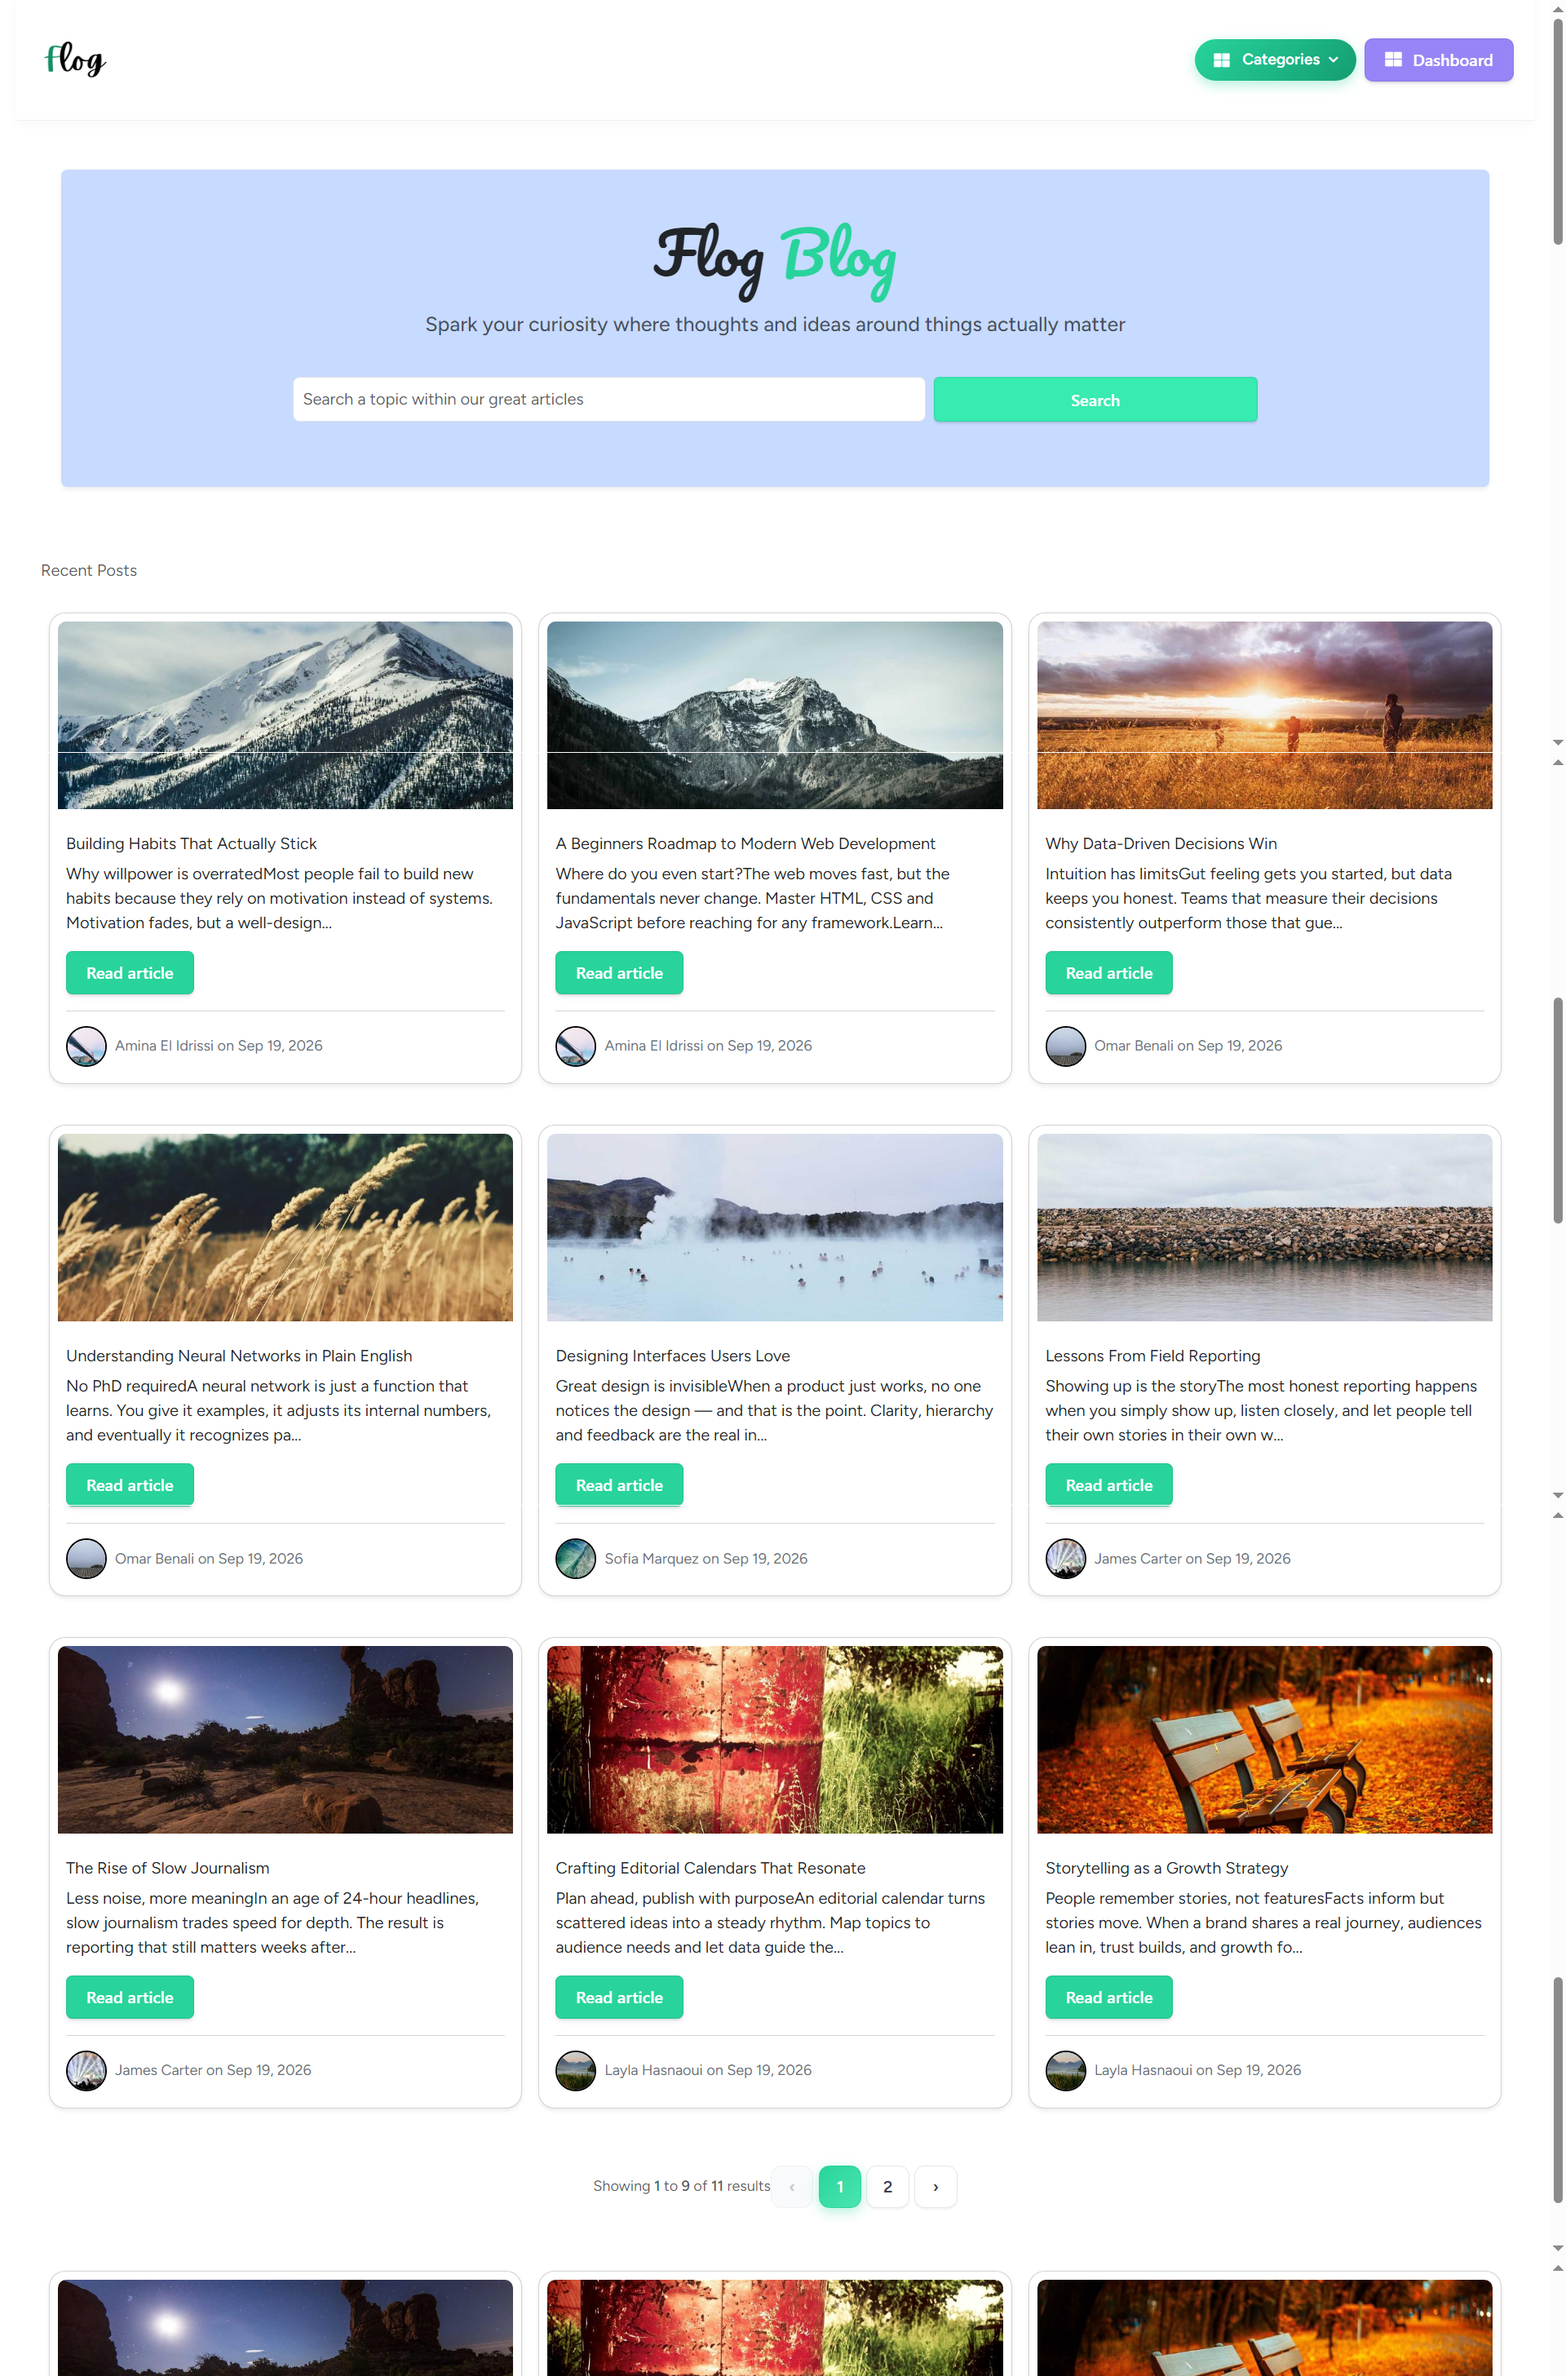
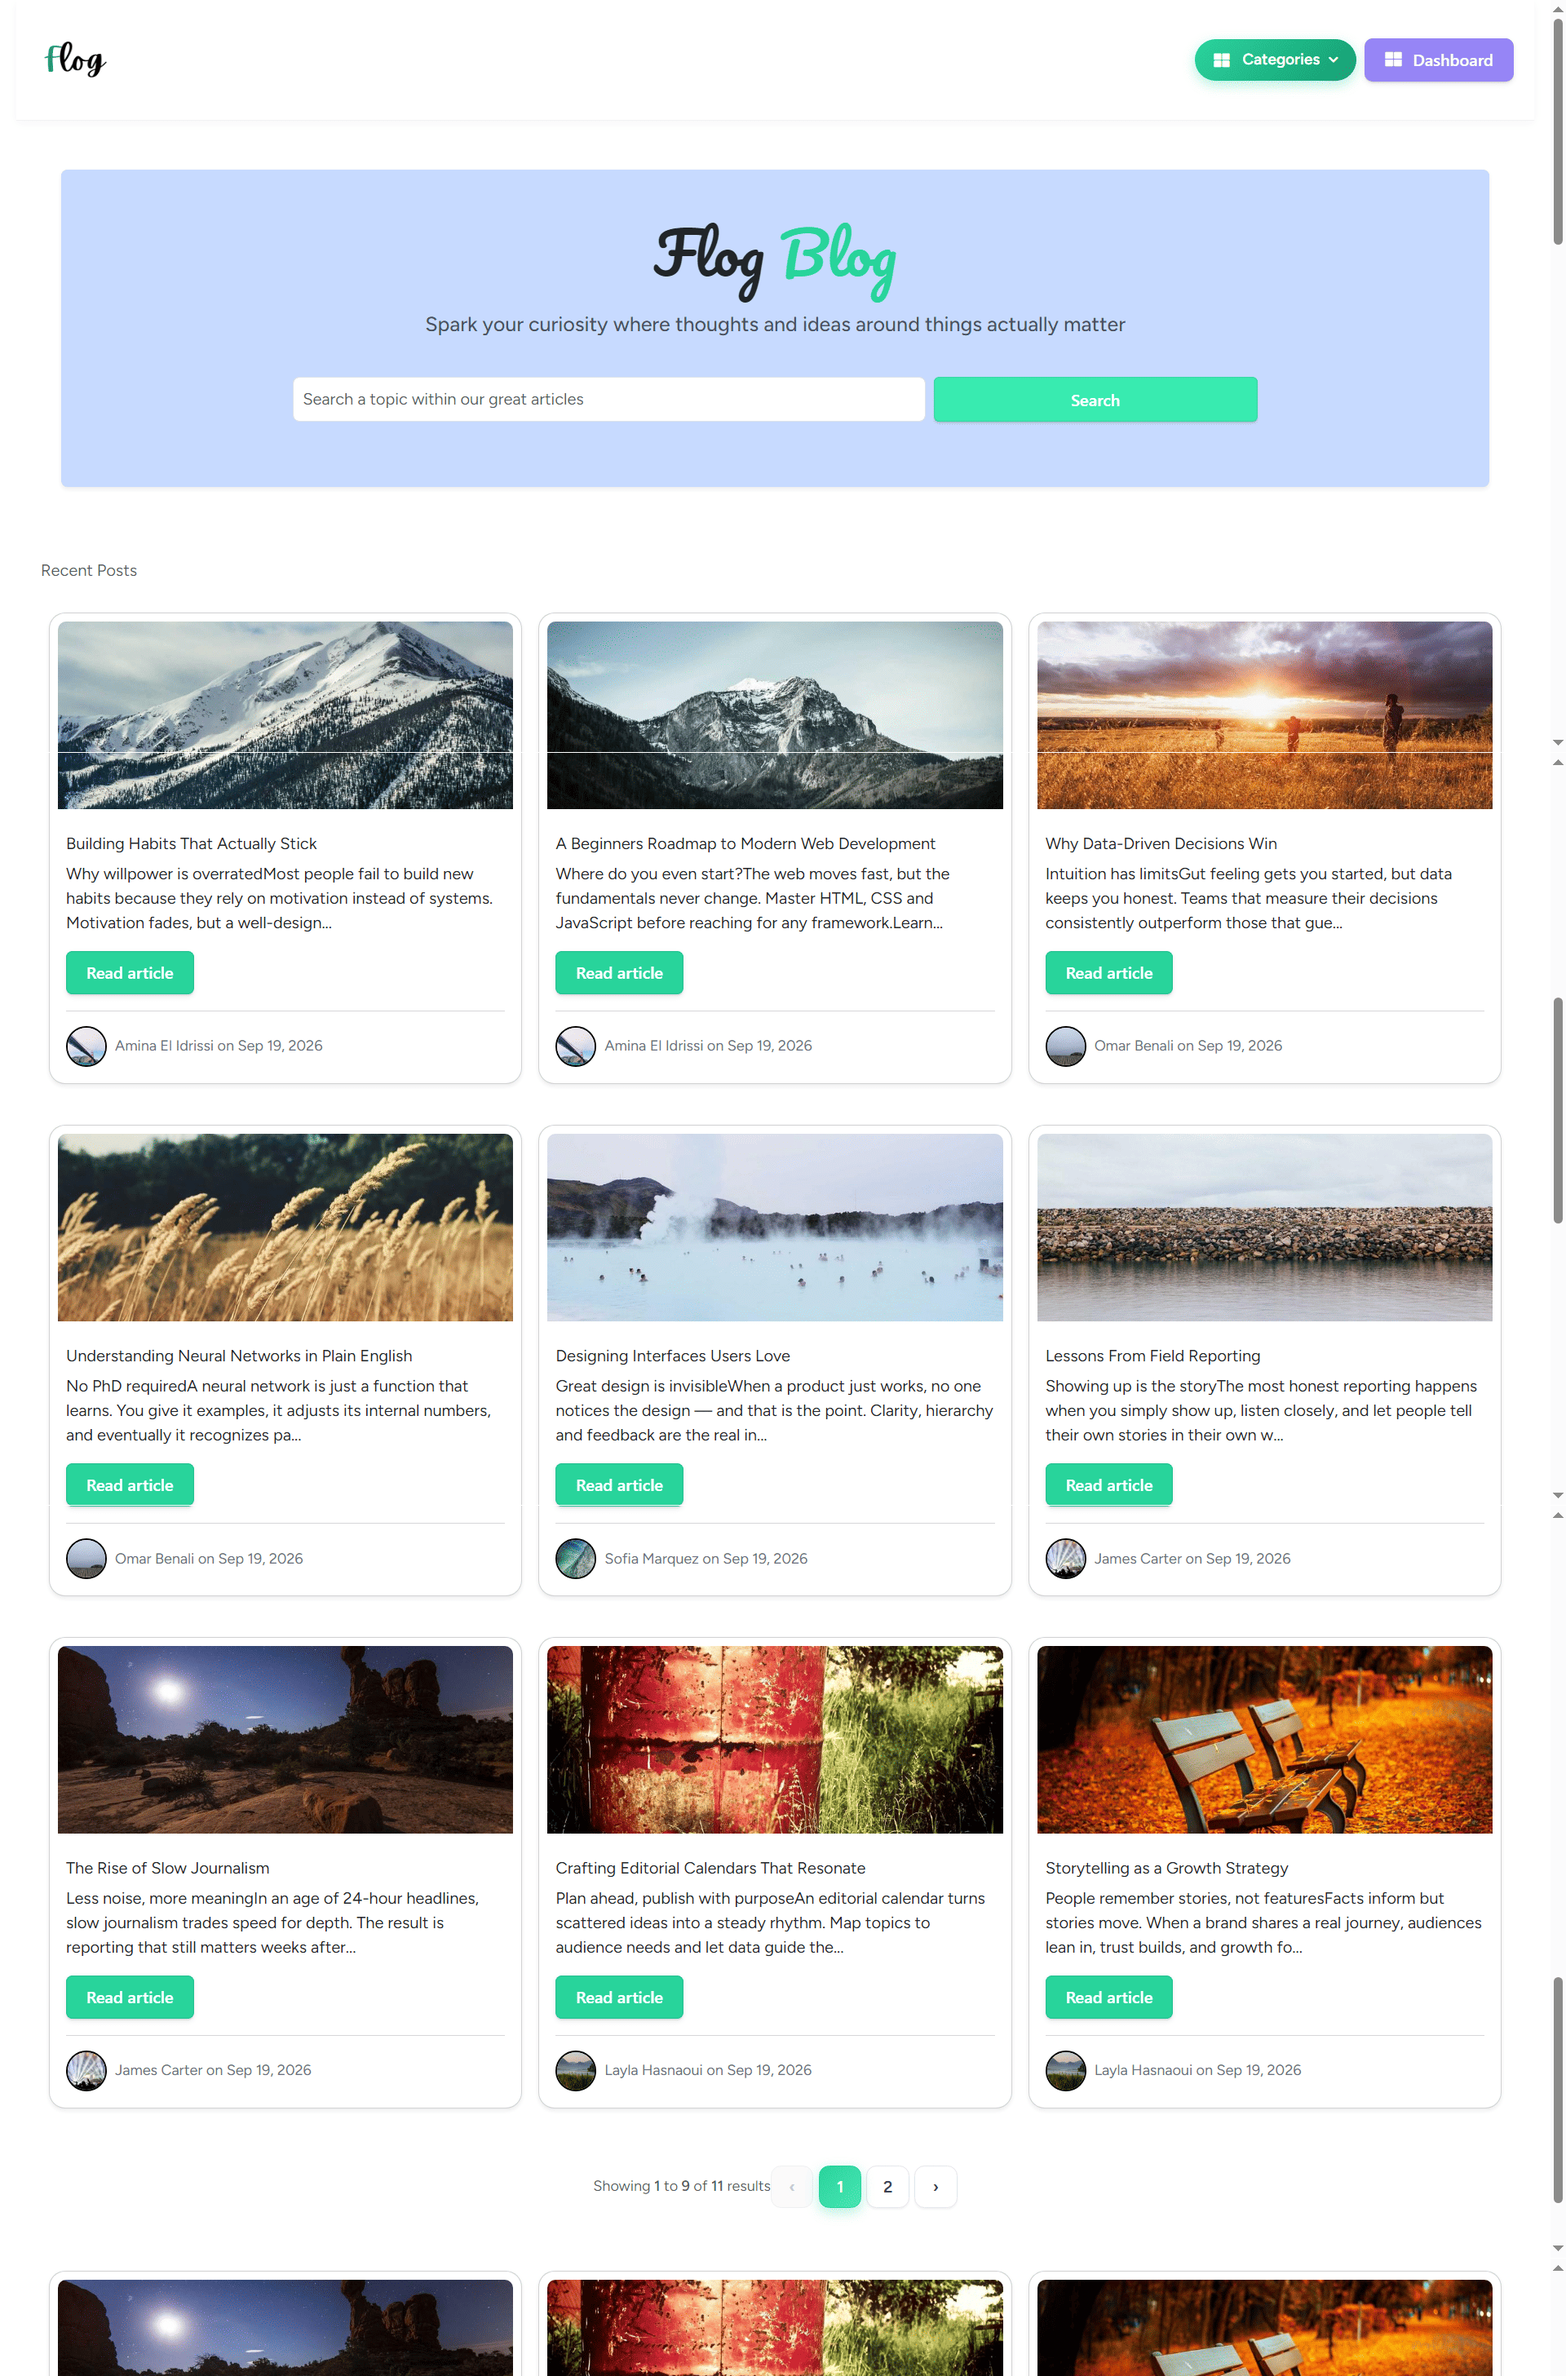
chore: add render free-tier deployment config and guide; retag color post thumbnail

diff --git a/database/seeders/PostsSeeder.php b/database/seeders/PostsSeeder.php
@@ -81,6 +81,7 @@ class PostsSeeder extends Seeder
                 'email' => 'sofia.marquez@example.com',
                 'title' => 'The Subtle Art of Color in Product Design',
                 'category' => 'Arts',
+                'image_seed' => 'flog-post-21',
                 'body' => '<h2>Color communicates before words do</h2>'
                     .'<p>Color sets the emotional tone of a product. Warm hues invite, cool tones reassure, '
                     .'and contrast guides attention exactly where it should go.</p>'
@@ -151,7 +152,7 @@ class PostsSeeder extends Seeder
             }
 
             $categoryId = Category::where('category_name', $post['category'])->value('id');
-            $image = 'https://picsum.photos/seed/flog-post-'.($index + 1).'/800/500';
+            $image = 'https://picsum.photos/seed/'.($post['image_seed'] ?? 'flog-post-'.($index + 1)).'/800/500';
 
             Post::updateOrCreate(
                 ['title' => $post['title']],

diff --git a/DEPLOYMENT.md b/DEPLOYMENT.md
@@ -1,0 +1,53 @@
+# Deploying Flog to Render (Free Tier)
+
+This guide deploys the blog 100% free using [Render](https://render.com).
+
+## What you get (free)
+- Web service (512 MB RAM) — spins down after ~15 min idle, wakes in ~1 min on the next visit
+- PostgreSQL database (1 GB) — **expires 30 days after creation**; after that you either upgrade (~$6/mo) or it gets deleted
+- 750 free instance-hours per workspace per month
+- Free TLS/HTTPS on `https://flog-blog.onrender.com`
+
+Best for a portfolio / demo. Re-seeding is built into the deploy, so a lost DB is recoverable.
+
+> Not for production. Free instances have no persistent disk (uploaded files are lost on restart) and no SSH console.
+
+## Prerequisites
+- This repo pushed to GitHub (already done: `origin/main`)
+- A free [Render account](https://render.com) (no credit card required)
+
+## Steps
+
+1. Push this branch with the `render.yaml` included:
+   ```bash
+   git add render.yaml
+   git commit -m "chore: add render blueprint for free deployment"
+   git push origin main
+   ```
+
+2. In the Render Dashboard: **New → Blueprint** (or "New Blueprint Instance").
+3. Pick the `Flog-DEV/Blog` repo → Render reads `render.yaml` and creates:
+   - `flog-blog` web service
+   - `flog-blog-db` PostgreSQL (free)
+4. Click **Apply**. First deploy builds, then runs `migrate --seed` automatically (demo users/posts included).
+
+Your site is live at `https://flog-blog.onrender.com`.
+
+## Demo logins (seeded)
+- demo user: `user1@flog.com` … `user6@flog.com`, password: `password`
+- (check `database/seeders/UsersSeeder.php` for the exact list)
+
+## Post-deploy notes
+- Email verification uses Laravel's `log` mailer: verification links are written to logs, never actually sent. Set a real mailer (e.g. Brevo/Mailtrap) in Render env vars if you want emails.
+- Uploaded images: free instances lose the local filesystem on restart, so demo avatars/covers are served from external URLs (picsum). Local uploads won't survive a restart — avoid relying on them on the free plan.
+- The free Postgres is deleted after 30 days (14-day grace). Re-deploying re-runs `migrate --seed` and rebuilds the demo data. To keep data long-term, upgrade the DB to a paid `Basic` (~$6/mo).
+- Sessions are stored in the DB (`SESSION_DRIVER=database`) so logins survive service restarts.
+
+## Useful Render env vars
+`APP_DEBUG=false` is already set. To tweak anything live, edit **Environment** on the service in the Render dashboard (e.g. `MAIL_MAILER=smtp`, `MAIL_HOST`, `MAIL_USERNAME`, `MAIL_PASSWORD`, `MAIL_FROM_ADDRESS`).
+
+## Troubleshooting
+- **Deploy fails on `composer install`** → make sure `composer.lock` is committed (it is). 
+- **403/404 after deploy** → `rootDir: public` is already set; the app must start from the `public/` folder.
+- **Blank page, 500 on login** → check `php artisan config:cache` env vars; run a manual deploy from the dashboard and view the logs.
+- **Cold start** → first request after idle takes ~1 min; refresh once and it's fast.
